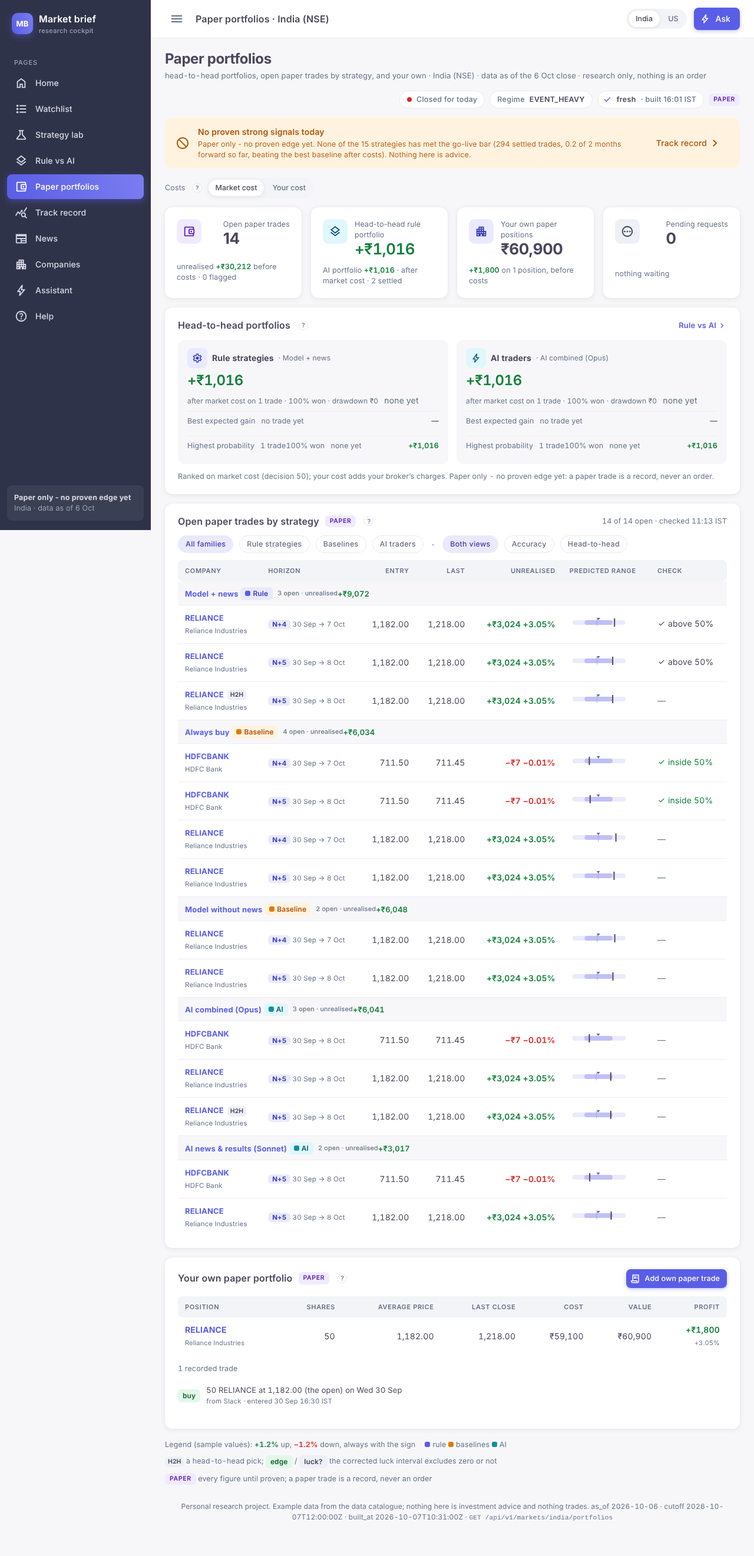
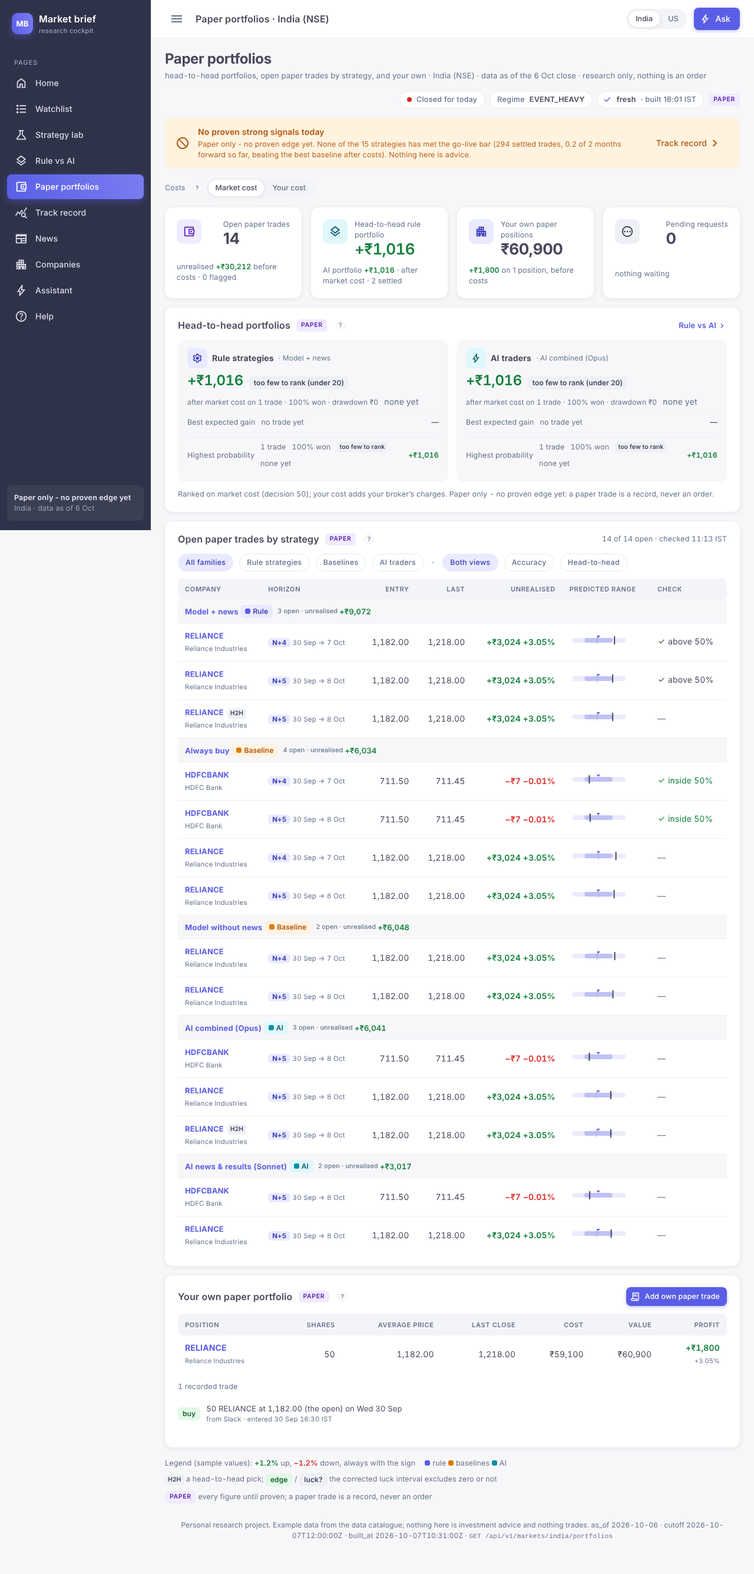
Design track: Rule vs AI round 2 fix (Paper tags on every card with a pick or trade); Paper portfolios round 1 fixes
Paper portfolios: pick-rule figures in their own spans, 'too few to rank' beside profits under 20 trades with the
luck label qualified, the pending note says a paper trade is a record, LUCK_INTERVAL_PCT, money formatting, the
dialog's accessible name.

Claude-Session: https://claude.ai/code/session_01RuLrYPoHyYoZ2LBEo834w9

diff --git a/design/mockups/07-paper-portfolios/page.html b/design/mockups/07-paper-portfolios/page.html
@@ -841,7 +841,8 @@ function luckBar(r) {
   s.append(svgEl('line', {class:'z', x1: X(0), x2: X(0), y1: 1, y2: 15}), svgEl('line', {class:'raw', x1: X(t.low_pct), x2: X(t.high_pct), y1: 8, y2: 8}));
   if (t.corrected_low_pct != null) s.append(svgEl('line', {class:'cor' + (t.corrected ? ' edge' : ''), x1: X(t.corrected_low_pct), x2: X(t.corrected_high_pct), y1: 8, y2: 8}));
   s.append(svgEl('circle', {class:'mean', cx: X(val(r, 'mean_return_pct')), cy: 8, r: 2.5}));
-  return el('span', {class:'luck', 'data-tip': `Luck test (${t.n} trades): mean return per trade ${sgn(val(r, 'mean_return_pct'))}; 95% interval ${sgn(t.low_pct)} to ${sgn(t.high_pct)} (thin), corrected for the ${t.m} rows compared ${sgn(t.corrected_low_pct)} to ${sgn(t.corrected_high_pct)} (thick). ${t.corrected ? 'Excludes zero: an edge may be real.' : 'Includes zero: could be luck; no edge claimed.'}`}, s, el('span', {class:'mb-label ' + (t.corrected ? 'success' : 'neutral')}, t.corrected ? 'edge' : 'luck?'));
+  const few = r.sample_badge === 'too_few_to_rank';
+  return el('span', {class:'luck', 'data-tip': `Luck test (${t.n} trades): mean return per trade ${sgn(val(r, 'mean_return_pct'))}; ${LUCK_INTERVAL_PCT}% interval ${sgn(t.low_pct)} to ${sgn(t.high_pct)} (thin), corrected for the ${t.m} rows compared ${sgn(t.corrected_low_pct)} to ${sgn(t.corrected_high_pct)} (thick). ${t.corrected ? (few ? `Excludes zero, but on fewer than ${MIN_TRADES_TO_RANK} trades: not counted as an edge yet.` : 'Excludes zero: an edge may be real.') : 'Includes zero: could be luck; no edge claimed.'}`}, s, el('span', {class:'mb-label ' + (t.corrected && !few ? 'success' : 'neutral')}, t.corrected ? (few ? 'edge? too few' : 'edge') : 'luck?'));
 }
 
 /* ---------- KPIs ---------- */
@@ -862,13 +863,13 @@ function kpis(p) {
 /* ---------- head-to-head portfolios ---------- */
 function h2hCard(p) {
   const cur = p.currency, card = el('section', {class:'card', 'aria-label':'Head-to-head portfolios'});
-  card.append(el('div', {class:'head'}, el('h2', {}, 'Head-to-head portfolios'), help('The portfolios of the head-to-head view (F1, F7.1): per family (the strongest rule strategy and the strongest AI trader) and per pick rule (best expected gain, highest probability). Each pick is one paper trade of the company’s amount. Profit after the selected costs; the luck test says whether a lead could be chance.'), el('div', {class:'end'}, el('a', {class:'go', href: PAGES.compare}, 'Rule vs AI', icon('ms-chevron_right')))));
+  card.append(el('div', {class:'head'}, el('h2', {}, 'Head-to-head portfolios'), el('span', {class:'mb-tag paper'}, 'paper'), help('The portfolios of the head-to-head view (F1, F7.1): per family (the strongest rule strategy and the strongest AI trader) and per pick rule (best expected gain, highest probability). Each pick is one paper trade of the company’s amount. Profit after the selected costs; the luck test says whether a lead could be chance.'), el('div', {class:'end'}, el('a', {class:'go', href: PAGES.compare}, 'Rule vs AI', icon('ms-chevron_right')))));
   const g = el('div', {class:'h2h'});
   for (const f of ['rule', 'ai']) {
     const fr = p.h2h_rows.find(r => r.scope === 'strategy' && r.family === f && r.horizon_days === 'all'), box = el('div', {class:'fbox'});
     box.append(el('div', {class:'fh'}, avatar(FAMILY[f][1], f === 'ai' ? 'info' : '', 'sm'), el('b', {}, FAMILY[f][0]), fr ? el('small', {}, `· ${stratOf(market, fr.strategy_id).name}`) : el('small', {}, '· nothing settled yet')));
-    if (fr) { box.append(el('div', {class:'tot'}, el('span', {class:'n'}, moneyDelta(cur, val(fr, 'net_pnl'), dec(cur))), el('small', {}, `after ${cost} cost on ${fr.trades} trade${fr.trades === 1 ? '' : 's'} · ${pct(val(fr, 'win_rate'))} won · drawdown ${money(cur, val(fr, 'max_drawdown'), dec(cur), true)}`), luckBar(fr)));
-      for (const k of ['best_expected_gain', 'highest_probability']) { const r = p.h2h_rows.find(x => x.scope === 'pick_rule' && x.family === f && x.pick_rule === k && x.horizon_days === 'all'); box.append(el('div', {class:'pr'}, el('span', {class:'l'}, PICK[k]), r ? el('span', {class:'st'}, `${r.trades} trade${r.trades === 1 ? '' : 's'}`, `${pct(val(r, 'win_rate'))} won`, luckBar(r)) : el('span', {class:'st muted'}, 'no trade yet'), r ? el('b', {}, moneyDelta(cur, val(r, 'net_pnl'), dec(cur))) : el('b', {class:'muted'}, '—'))); } }
+    if (fr) { box.append(el('div', {class:'tot'}, el('span', {class:'n'}, moneyDelta(cur, val(fr, 'net_pnl'), dec(cur))), fr.sample_badge === 'too_few_to_rank' ? el('span', {class:'mb-label neutral', 'data-tip': `Fewer than ${MIN_TRADES_TO_RANK} settled trades: a handful of trades is mostly luck (SPEC section 6).`}, `too few to rank (under ${MIN_TRADES_TO_RANK})`) : null, el('small', {}, `after ${cost} cost on ${fr.trades} trade${fr.trades === 1 ? '' : 's'} · ${pct(val(fr, 'win_rate'))} won · drawdown ${money(cur, val(fr, 'max_drawdown'), dec(cur), true)}`), luckBar(fr)));
+      for (const k of ['best_expected_gain', 'highest_probability']) { const r = p.h2h_rows.find(x => x.scope === 'pick_rule' && x.family === f && x.pick_rule === k && x.horizon_days === 'all'); box.append(el('div', {class:'pr'}, el('span', {class:'l'}, PICK[k]), r ? el('span', {class:'st'}, el('span', {}, `${r.trades} trade${r.trades === 1 ? '' : 's'}`), el('span', {}, `${pct(val(r, 'win_rate'))} won`), r.sample_badge === 'too_few_to_rank' ? el('span', {class:'mb-label neutral', style:'font-size:10.5px;padding:0 5px'}, 'too few to rank') : null, luckBar(r)) : el('span', {class:'st muted'}, 'no trade yet'), r ? el('b', {}, moneyDelta(cur, val(r, 'net_pnl'), dec(cur))) : el('b', {class:'muted'}, '—'))); } }
     else box.append(el('div', {class:'quiet'}, 'No settled head-to-head trade for this family yet.'));
     g.append(box);
   }
@@ -899,7 +900,7 @@ function openTrades(p) {
     const body = el('tbody'); const byS = {}; for (const r of rows) (byS[r.strategy_id] = byS[r.strategy_id] || []).push(r);
     for (const id of Object.keys(byS).sort((a, b) => ({rule: 0, baseline: 1, ai: 2}[stratOf(market, a).family] - {rule: 0, baseline: 1, ai: 2}[stratOf(market, b).family]) || a.localeCompare(b))) {
       const st = stratOf(market, id), trs = byS[id], sum = trs.reduce((s, r) => s + r.unrealised_pnl, 0);
-      body.append(el('tr', {class:'grp'}, el('td', {colspan: 8}, el('a', {class:'tk', href: `${PAGES.lab}#${market}/${id}`, 'data-tip': `${st.name}: open it in the Strategy lab.`}, st.name), ' ', famLabel(st.family, FAMILY_SHORT[st.family]), el('small', {}, `${trs.length} open · unrealised `), moneyDelta(cur, sum, dec(cur)))));
+      body.append(el('tr', {class:'grp'}, el('td', {colspan: 8}, el('a', {class:'tk', href: `${PAGES.lab}#${market}/${id}`, 'data-tip': `${st.name}: open it in the Strategy lab.`}, st.name), ' ', famLabel(st.family, FAMILY_SHORT[st.family]), el('small', {}, `${trs.length} open · unrealised\u00a0`), moneyDelta(cur, sum, dec(cur)))));
       for (const r of trs) { const ck = checks[r.trade_id]; let status;
         if (!ck) status = el('span', {class:'st muted', 'data-tip':'No intraday check stored for this trade by the cut-off.'}, '—');
         else { const b = BAND[ck.band] || [ck.band, '']; const fl = ck.flags.map(f => FLAG[f] || f); status = el('span', {class:'st ' + (ck.flagged ? 'flag' : b[1]), 'data-tip': `${fmtLocal(ck.check_at, market)}: ${price(cur, ck.last_price)}, ${sgn(ck.ret_since_entry_pct)} since entry, ${b[0]}${fl.length ? '; ' + fl.join(', ') : ''}. Best so far ${sgn(ck.high_since_entry_pct)}, worst ${sgn(ck.low_since_entry_pct)}.`}, icon(ck.flagged ? 'ms-warning' : 'ms-check'), ck.flagged ? ck.flags.map(f => FLAG_SHORT[f] || f).join(', ') : (BAND_SHORT[ck.band] || ck.band)); }
@@ -925,7 +926,7 @@ function owner(p) {
   const eurPos = o.positions.filter(x => x.eur_view);
   for (const x of eurPos) { const e = x.eur_view; card.append(el('div', {class:'sub2', style:'margin:14px 0 0'}, `Euro view of ${x.ticker} (${e.quantity} share${e.quantity === 1 ? '' : 's'}, marked ${fmtD(e.mark_date, false)})`, help(`What the position cost in euros and what it would give back if converted now: EUR/USD ${e.eurusd_at_buy} on the buy date, ${e.eurusd_now} now, FX markup ${(e.fx_fee_rate * 100).toFixed(2)}% each way. ${e.note}`)));
     const g = el('div', {class:'eur'}); const euro = v => (v < 0 ? '−' : '') + '€' + Math.abs(v).toLocaleString('en-IE', {minimumFractionDigits: 2, maximumFractionDigits: 2});
-    g.append(el('div', {class:'n', 'data-tip': `Dollars paid including the buy order’s cost: $${e.cost_usd.toFixed(2)} ÷ ${e.eurusd_at_buy} × (1 + ${e.fx_fee_rate}).`}, el('div', {class:'l'}, 'Euros paid'), el('div', {class:'v'}, euro(e.cost_eur)), el('div', {class:'s'}, `at EUR/USD ${e.eurusd_at_buy} + markup`)), el('div', {class:'n', 'data-tip': `Dollars held now $${e.value_usd.toFixed(2)} ÷ ${e.eurusd_now} × (1 − ${e.fx_fee_rate}).`}, el('div', {class:'l'}, 'Euros back if sold now'), el('div', {class:'v'}, euro(e.value_eur)), el('div', {class:'s'}, `at EUR/USD ${e.eurusd_now} − markup`)), el('div', {class:'n', 'data-tip':'Euros back minus euros paid.'}, el('div', {class:'l'}, 'Profit in euros'), el('div', {class:'v'}, el('span', {class:'mb-delta ' + (e.pnl_eur > 0 ? 'up' : e.pnl_eur < 0 ? 'down' : 'flat')}, euro(e.pnl_eur).replace(/^(?!−)/, e.pnl_eur > 0 ? '+' : ''))), el('div', {class:'s'}, `vs ${money(cur, x.pnl, 2, true)} in dollars`)), el('div', {class:'n', 'data-tip':'The part of the euro result due to the exchange rate alone, before any fee.'}, el('div', {class:'l'}, 'Of which the rate'), el('div', {class:'v'}, el('span', {class:'mb-delta ' + (e.fx_effect_eur > 0 ? 'up' : e.fx_effect_eur < 0 ? 'down' : 'flat')}, euro(e.fx_effect_eur).replace(/^(?!−)/, e.fx_effect_eur > 0 ? '+' : ''))), el('div', {class:'s'}, 'rate change only')));
+    g.append(el('div', {class:'n', 'data-tip': `Dollars paid including the buy order’s cost: ${money(cur, e.cost_usd, 2)} ÷ ${e.eurusd_at_buy} × (1 + ${e.fx_fee_rate}).`}, el('div', {class:'l'}, 'Euros paid'), el('div', {class:'v'}, euro(e.cost_eur)), el('div', {class:'s'}, `at EUR/USD ${e.eurusd_at_buy} + markup`)), el('div', {class:'n', 'data-tip': `Dollars held now ${money(cur, e.value_usd, 2)} ÷ ${e.eurusd_now} × (1 − ${e.fx_fee_rate}).`}, el('div', {class:'l'}, 'Euros back if sold now'), el('div', {class:'v'}, euro(e.value_eur)), el('div', {class:'s'}, `at EUR/USD ${e.eurusd_now} − markup`)), el('div', {class:'n', 'data-tip':'Euros back minus euros paid.'}, el('div', {class:'l'}, 'Profit in euros'), el('div', {class:'v'}, el('span', {class:'mb-delta ' + (e.pnl_eur > 0 ? 'up' : e.pnl_eur < 0 ? 'down' : 'flat')}, euro(e.pnl_eur).replace(/^(?!−)/, e.pnl_eur > 0 ? '+' : ''))), el('div', {class:'s'}, `vs ${money(cur, x.pnl, 2, true)} in dollars before costs`)), el('div', {class:'n', 'data-tip':'The part of the euro result due to the exchange rate alone, before any fee.'}, el('div', {class:'l'}, 'Of which the rate'), el('div', {class:'v'}, el('span', {class:'mb-delta ' + (e.fx_effect_eur > 0 ? 'up' : e.fx_effect_eur < 0 ? 'down' : 'flat')}, euro(e.fx_effect_eur).replace(/^(?!−)/, e.fx_effect_eur > 0 ? '+' : ''))), el('div', {class:'s'}, 'rate change only')));
     card.append(g); }
   card.append(el('div', {class:'sub2', style:'margin:14px 0 0'}, `${o.trades.length} recorded trade${o.trades.length === 1 ? '' : 's'}`));
   const ul = el('ul', {class:'tl'});
@@ -936,7 +937,7 @@ function owner(p) {
 }
 function renderPending(host) {
   host.innerHTML = '';
-  for (const r of (pending[market] || [])) host.append(el('div', {class:'mb-alert', style:'padding:10px 14px'}, icon('ms-pending'), el('div', {}, el('b', {class:'t'}, `Pending: ${r}`), el('div', {class:'s'}, 'Appended to the inbox with your sign-in and an idempotency key; the next run imports it and checks the price against the stored bar (F10, WS4). Mockup: nothing was sent.'))));
+  for (const r of (pending[market] || [])) host.append(el('div', {class:'mb-alert', style:'padding:10px 14px'}, icon('ms-pending'), el('div', {}, el('b', {class:'t'}, `Pending: ${r}`), el('div', {class:'s'}, 'A paper trade is a record, never an order. Appended to the inbox with your sign-in and an idempotency key; the next run imports it and checks the price against the stored bar (F10, WS4). Mockup: nothing was sent.'))));
 }
 function openDialog(p) {
   const cur = p.currency, dlg = $('#dlg'); dlg.innerHTML = '';
@@ -946,9 +947,9 @@ function openDialog(p) {
   const basis = el('select', {'aria-label':'Price basis'}, el('option', {value:'open'}, 'The session’s open'), el('option', {value:'close'}, 'The session’s close'), el('option', {value:'manual'}, 'A price I type (inside the day’s range)'));
   const px = el('input', {type:'number', step:'0.01', placeholder:'only for a typed price', 'aria-label':'Price'});
   const date = el('input', {type:'date', value: p.as_of, 'aria-label':'Session date'});
-  const body = el('div', {class:'dbody'}, el('h3', {}, 'Add an own paper trade'), el('div', {}, `A paper trade is a record of what you would have done, never an order. The price must be the stored bar’s open or close, or a typed price inside that day’s low-high; the import checks it (WS4). Whole shares in India, fractions in the US.`), el('label', {}, 'Company', sel), el('div', {class:'row2'}, el('label', {}, 'Side', side), el('label', {}, 'Shares', qty)), el('div', {class:'row2'}, el('label', {}, 'Price basis', basis), el('label', {}, `Price (${cur})`, px)), el('label', {}, 'Session date', date), el('div', {class:'muted', style:'font-size:12.5px'}, 'Recorded with your sign-in and an idempotency key; pending until the next run imports it. Nothing is bought or sold.'));
-  const acts = el('div', {class:'dact'}, el('button', {class:'md-btn text', type:'button', onclick: () => dlg.close()}, 'Cancel'), el('button', {class:'md-btn filled', type:'button', onclick: () => { (pending[market] = pending[market] || []).push(`${side.value} ${qty.value} ${sel.value} at ${basis.value === 'manual' ? (px.value ? price(cur, +px.value) : 'a typed price') : `the ${basis.value}`} of ${fmtD(date.value)}`); dlg.close(); render(); }}, 'Record paper trade'));
-  dlg.append(body, acts); dlg.showModal();
+  const body = el('div', {class:'dbody'}, el('h3', {id:'dlg-title'}, 'Add an own paper trade'), el('div', {}, `A paper trade is a record of what you would have done, never an order. The price must be the stored bar’s open or close, or a typed price inside that day’s low-high; the import checks it (WS4). Whole shares in India, fractions in the US.`), el('label', {}, 'Company', sel), el('div', {class:'row2'}, el('label', {}, 'Side', side), el('label', {}, 'Shares', qty)), el('div', {class:'row2'}, el('label', {}, 'Price basis', basis), el('label', {}, `Price (${cur})`, px)), el('label', {}, 'Session date', date), el('div', {class:'muted', style:'font-size:12.5px'}, 'Recorded with your sign-in and an idempotency key; pending until the next run imports it. Nothing is bought or sold.'));
+  const acts = el('div', {class:'dact'}, el('button', {class:'md-btn text', type:'button', onclick: () => dlg.close()}, 'Cancel'), el('button', {class:'md-btn filled', type:'button', onclick: () => { (pending[market] = pending[market] || []).push(`${side.value} ${qty.value} ${sel.value} at ${basis.value === 'manual' ? (px.value ? price(cur, +px.value) : 'a typed price') : `the ${basis.value}`} on ${fmtD(date.value)}`); dlg.close(); render(); }}, 'Record paper trade'));
+  dlg.setAttribute('aria-labelledby', 'dlg-title'); dlg.append(body, acts); dlg.showModal();
 }
 
 function legend() {

diff --git a/design/mockups/07-paper-portfolios/template.html b/design/mockups/07-paper-portfolios/template.html
@@ -86,7 +86,8 @@ function luckBar(r) {
   s.append(svgEl('line', {class:'z', x1: X(0), x2: X(0), y1: 1, y2: 15}), svgEl('line', {class:'raw', x1: X(t.low_pct), x2: X(t.high_pct), y1: 8, y2: 8}));
   if (t.corrected_low_pct != null) s.append(svgEl('line', {class:'cor' + (t.corrected ? ' edge' : ''), x1: X(t.corrected_low_pct), x2: X(t.corrected_high_pct), y1: 8, y2: 8}));
   s.append(svgEl('circle', {class:'mean', cx: X(val(r, 'mean_return_pct')), cy: 8, r: 2.5}));
-  return el('span', {class:'luck', 'data-tip': `Luck test (${t.n} trades): mean return per trade ${sgn(val(r, 'mean_return_pct'))}; 95% interval ${sgn(t.low_pct)} to ${sgn(t.high_pct)} (thin), corrected for the ${t.m} rows compared ${sgn(t.corrected_low_pct)} to ${sgn(t.corrected_high_pct)} (thick). ${t.corrected ? 'Excludes zero: an edge may be real.' : 'Includes zero: could be luck; no edge claimed.'}`}, s, el('span', {class:'mb-label ' + (t.corrected ? 'success' : 'neutral')}, t.corrected ? 'edge' : 'luck?'));
+  const few = r.sample_badge === 'too_few_to_rank';
+  return el('span', {class:'luck', 'data-tip': `Luck test (${t.n} trades): mean return per trade ${sgn(val(r, 'mean_return_pct'))}; ${LUCK_INTERVAL_PCT}% interval ${sgn(t.low_pct)} to ${sgn(t.high_pct)} (thin), corrected for the ${t.m} rows compared ${sgn(t.corrected_low_pct)} to ${sgn(t.corrected_high_pct)} (thick). ${t.corrected ? (few ? `Excludes zero, but on fewer than ${MIN_TRADES_TO_RANK} trades: not counted as an edge yet.` : 'Excludes zero: an edge may be real.') : 'Includes zero: could be luck; no edge claimed.'}`}, s, el('span', {class:'mb-label ' + (t.corrected && !few ? 'success' : 'neutral')}, t.corrected ? (few ? 'edge? too few' : 'edge') : 'luck?'));
 }
 
 /* ---------- KPIs ---------- */
@@ -107,13 +108,13 @@ function kpis(p) {
 /* ---------- head-to-head portfolios ---------- */
 function h2hCard(p) {
   const cur = p.currency, card = el('section', {class:'card', 'aria-label':'Head-to-head portfolios'});
-  card.append(el('div', {class:'head'}, el('h2', {}, 'Head-to-head portfolios'), help('The portfolios of the head-to-head view (F1, F7.1): per family (the strongest rule strategy and the strongest AI trader) and per pick rule (best expected gain, highest probability). Each pick is one paper trade of the company’s amount. Profit after the selected costs; the luck test says whether a lead could be chance.'), el('div', {class:'end'}, el('a', {class:'go', href: PAGES.compare}, 'Rule vs AI', icon('ms-chevron_right')))));
+  card.append(el('div', {class:'head'}, el('h2', {}, 'Head-to-head portfolios'), el('span', {class:'mb-tag paper'}, 'paper'), help('The portfolios of the head-to-head view (F1, F7.1): per family (the strongest rule strategy and the strongest AI trader) and per pick rule (best expected gain, highest probability). Each pick is one paper trade of the company’s amount. Profit after the selected costs; the luck test says whether a lead could be chance.'), el('div', {class:'end'}, el('a', {class:'go', href: PAGES.compare}, 'Rule vs AI', icon('ms-chevron_right')))));
   const g = el('div', {class:'h2h'});
   for (const f of ['rule', 'ai']) {
     const fr = p.h2h_rows.find(r => r.scope === 'strategy' && r.family === f && r.horizon_days === 'all'), box = el('div', {class:'fbox'});
     box.append(el('div', {class:'fh'}, avatar(FAMILY[f][1], f === 'ai' ? 'info' : '', 'sm'), el('b', {}, FAMILY[f][0]), fr ? el('small', {}, `· ${stratOf(market, fr.strategy_id).name}`) : el('small', {}, '· nothing settled yet')));
-    if (fr) { box.append(el('div', {class:'tot'}, el('span', {class:'n'}, moneyDelta(cur, val(fr, 'net_pnl'), dec(cur))), el('small', {}, `after ${cost} cost on ${fr.trades} trade${fr.trades === 1 ? '' : 's'} · ${pct(val(fr, 'win_rate'))} won · drawdown ${money(cur, val(fr, 'max_drawdown'), dec(cur), true)}`), luckBar(fr)));
-      for (const k of ['best_expected_gain', 'highest_probability']) { const r = p.h2h_rows.find(x => x.scope === 'pick_rule' && x.family === f && x.pick_rule === k && x.horizon_days === 'all'); box.append(el('div', {class:'pr'}, el('span', {class:'l'}, PICK[k]), r ? el('span', {class:'st'}, `${r.trades} trade${r.trades === 1 ? '' : 's'}`, `${pct(val(r, 'win_rate'))} won`, luckBar(r)) : el('span', {class:'st muted'}, 'no trade yet'), r ? el('b', {}, moneyDelta(cur, val(r, 'net_pnl'), dec(cur))) : el('b', {class:'muted'}, '—'))); } }
+    if (fr) { box.append(el('div', {class:'tot'}, el('span', {class:'n'}, moneyDelta(cur, val(fr, 'net_pnl'), dec(cur))), fr.sample_badge === 'too_few_to_rank' ? el('span', {class:'mb-label neutral', 'data-tip': `Fewer than ${MIN_TRADES_TO_RANK} settled trades: a handful of trades is mostly luck (SPEC section 6).`}, `too few to rank (under ${MIN_TRADES_TO_RANK})`) : null, el('small', {}, `after ${cost} cost on ${fr.trades} trade${fr.trades === 1 ? '' : 's'} · ${pct(val(fr, 'win_rate'))} won · drawdown ${money(cur, val(fr, 'max_drawdown'), dec(cur), true)}`), luckBar(fr)));
+      for (const k of ['best_expected_gain', 'highest_probability']) { const r = p.h2h_rows.find(x => x.scope === 'pick_rule' && x.family === f && x.pick_rule === k && x.horizon_days === 'all'); box.append(el('div', {class:'pr'}, el('span', {class:'l'}, PICK[k]), r ? el('span', {class:'st'}, el('span', {}, `${r.trades} trade${r.trades === 1 ? '' : 's'}`), el('span', {}, `${pct(val(r, 'win_rate'))} won`), r.sample_badge === 'too_few_to_rank' ? el('span', {class:'mb-label neutral', style:'font-size:10.5px;padding:0 5px'}, 'too few to rank') : null, luckBar(r)) : el('span', {class:'st muted'}, 'no trade yet'), r ? el('b', {}, moneyDelta(cur, val(r, 'net_pnl'), dec(cur))) : el('b', {class:'muted'}, '—'))); } }
     else box.append(el('div', {class:'quiet'}, 'No settled head-to-head trade for this family yet.'));
     g.append(box);
   }
@@ -144,7 +145,7 @@ function openTrades(p) {
     const body = el('tbody'); const byS = {}; for (const r of rows) (byS[r.strategy_id] = byS[r.strategy_id] || []).push(r);
     for (const id of Object.keys(byS).sort((a, b) => ({rule: 0, baseline: 1, ai: 2}[stratOf(market, a).family] - {rule: 0, baseline: 1, ai: 2}[stratOf(market, b).family]) || a.localeCompare(b))) {
       const st = stratOf(market, id), trs = byS[id], sum = trs.reduce((s, r) => s + r.unrealised_pnl, 0);
-      body.append(el('tr', {class:'grp'}, el('td', {colspan: 8}, el('a', {class:'tk', href: `${PAGES.lab}#${market}/${id}`, 'data-tip': `${st.name}: open it in the Strategy lab.`}, st.name), ' ', famLabel(st.family, FAMILY_SHORT[st.family]), el('small', {}, `${trs.length} open · unrealised `), moneyDelta(cur, sum, dec(cur)))));
+      body.append(el('tr', {class:'grp'}, el('td', {colspan: 8}, el('a', {class:'tk', href: `${PAGES.lab}#${market}/${id}`, 'data-tip': `${st.name}: open it in the Strategy lab.`}, st.name), ' ', famLabel(st.family, FAMILY_SHORT[st.family]), el('small', {}, `${trs.length} open · unrealised\u00a0`), moneyDelta(cur, sum, dec(cur)))));
       for (const r of trs) { const ck = checks[r.trade_id]; let status;
         if (!ck) status = el('span', {class:'st muted', 'data-tip':'No intraday check stored for this trade by the cut-off.'}, '—');
         else { const b = BAND[ck.band] || [ck.band, '']; const fl = ck.flags.map(f => FLAG[f] || f); status = el('span', {class:'st ' + (ck.flagged ? 'flag' : b[1]), 'data-tip': `${fmtLocal(ck.check_at, market)}: ${price(cur, ck.last_price)}, ${sgn(ck.ret_since_entry_pct)} since entry, ${b[0]}${fl.length ? '; ' + fl.join(', ') : ''}. Best so far ${sgn(ck.high_since_entry_pct)}, worst ${sgn(ck.low_since_entry_pct)}.`}, icon(ck.flagged ? 'ms-warning' : 'ms-check'), ck.flagged ? ck.flags.map(f => FLAG_SHORT[f] || f).join(', ') : (BAND_SHORT[ck.band] || ck.band)); }
@@ -170,7 +171,7 @@ function owner(p) {
   const eurPos = o.positions.filter(x => x.eur_view);
   for (const x of eurPos) { const e = x.eur_view; card.append(el('div', {class:'sub2', style:'margin:14px 0 0'}, `Euro view of ${x.ticker} (${e.quantity} share${e.quantity === 1 ? '' : 's'}, marked ${fmtD(e.mark_date, false)})`, help(`What the position cost in euros and what it would give back if converted now: EUR/USD ${e.eurusd_at_buy} on the buy date, ${e.eurusd_now} now, FX markup ${(e.fx_fee_rate * 100).toFixed(2)}% each way. ${e.note}`)));
     const g = el('div', {class:'eur'}); const euro = v => (v < 0 ? '−' : '') + '€' + Math.abs(v).toLocaleString('en-IE', {minimumFractionDigits: 2, maximumFractionDigits: 2});
-    g.append(el('div', {class:'n', 'data-tip': `Dollars paid including the buy order’s cost: $${e.cost_usd.toFixed(2)} ÷ ${e.eurusd_at_buy} × (1 + ${e.fx_fee_rate}).`}, el('div', {class:'l'}, 'Euros paid'), el('div', {class:'v'}, euro(e.cost_eur)), el('div', {class:'s'}, `at EUR/USD ${e.eurusd_at_buy} + markup`)), el('div', {class:'n', 'data-tip': `Dollars held now $${e.value_usd.toFixed(2)} ÷ ${e.eurusd_now} × (1 − ${e.fx_fee_rate}).`}, el('div', {class:'l'}, 'Euros back if sold now'), el('div', {class:'v'}, euro(e.value_eur)), el('div', {class:'s'}, `at EUR/USD ${e.eurusd_now} − markup`)), el('div', {class:'n', 'data-tip':'Euros back minus euros paid.'}, el('div', {class:'l'}, 'Profit in euros'), el('div', {class:'v'}, el('span', {class:'mb-delta ' + (e.pnl_eur > 0 ? 'up' : e.pnl_eur < 0 ? 'down' : 'flat')}, euro(e.pnl_eur).replace(/^(?!−)/, e.pnl_eur > 0 ? '+' : ''))), el('div', {class:'s'}, `vs ${money(cur, x.pnl, 2, true)} in dollars`)), el('div', {class:'n', 'data-tip':'The part of the euro result due to the exchange rate alone, before any fee.'}, el('div', {class:'l'}, 'Of which the rate'), el('div', {class:'v'}, el('span', {class:'mb-delta ' + (e.fx_effect_eur > 0 ? 'up' : e.fx_effect_eur < 0 ? 'down' : 'flat')}, euro(e.fx_effect_eur).replace(/^(?!−)/, e.fx_effect_eur > 0 ? '+' : ''))), el('div', {class:'s'}, 'rate change only')));
+    g.append(el('div', {class:'n', 'data-tip': `Dollars paid including the buy order’s cost: ${money(cur, e.cost_usd, 2)} ÷ ${e.eurusd_at_buy} × (1 + ${e.fx_fee_rate}).`}, el('div', {class:'l'}, 'Euros paid'), el('div', {class:'v'}, euro(e.cost_eur)), el('div', {class:'s'}, `at EUR/USD ${e.eurusd_at_buy} + markup`)), el('div', {class:'n', 'data-tip': `Dollars held now ${money(cur, e.value_usd, 2)} ÷ ${e.eurusd_now} × (1 − ${e.fx_fee_rate}).`}, el('div', {class:'l'}, 'Euros back if sold now'), el('div', {class:'v'}, euro(e.value_eur)), el('div', {class:'s'}, `at EUR/USD ${e.eurusd_now} − markup`)), el('div', {class:'n', 'data-tip':'Euros back minus euros paid.'}, el('div', {class:'l'}, 'Profit in euros'), el('div', {class:'v'}, el('span', {class:'mb-delta ' + (e.pnl_eur > 0 ? 'up' : e.pnl_eur < 0 ? 'down' : 'flat')}, euro(e.pnl_eur).replace(/^(?!−)/, e.pnl_eur > 0 ? '+' : ''))), el('div', {class:'s'}, `vs ${money(cur, x.pnl, 2, true)} in dollars before costs`)), el('div', {class:'n', 'data-tip':'The part of the euro result due to the exchange rate alone, before any fee.'}, el('div', {class:'l'}, 'Of which the rate'), el('div', {class:'v'}, el('span', {class:'mb-delta ' + (e.fx_effect_eur > 0 ? 'up' : e.fx_effect_eur < 0 ? 'down' : 'flat')}, euro(e.fx_effect_eur).replace(/^(?!−)/, e.fx_effect_eur > 0 ? '+' : ''))), el('div', {class:'s'}, 'rate change only')));
     card.append(g); }
   card.append(el('div', {class:'sub2', style:'margin:14px 0 0'}, `${o.trades.length} recorded trade${o.trades.length === 1 ? '' : 's'}`));
   const ul = el('ul', {class:'tl'});
@@ -181,7 +182,7 @@ function owner(p) {
 }
 function renderPending(host) {
   host.innerHTML = '';
-  for (const r of (pending[market] || [])) host.append(el('div', {class:'mb-alert', style:'padding:10px 14px'}, icon('ms-pending'), el('div', {}, el('b', {class:'t'}, `Pending: ${r}`), el('div', {class:'s'}, 'Appended to the inbox with your sign-in and an idempotency key; the next run imports it and checks the price against the stored bar (F10, WS4). Mockup: nothing was sent.'))));
+  for (const r of (pending[market] || [])) host.append(el('div', {class:'mb-alert', style:'padding:10px 14px'}, icon('ms-pending'), el('div', {}, el('b', {class:'t'}, `Pending: ${r}`), el('div', {class:'s'}, 'A paper trade is a record, never an order. Appended to the inbox with your sign-in and an idempotency key; the next run imports it and checks the price against the stored bar (F10, WS4). Mockup: nothing was sent.'))));
 }
 function openDialog(p) {
   const cur = p.currency, dlg = $('#dlg'); dlg.innerHTML = '';
@@ -191,9 +192,9 @@ function openDialog(p) {
   const basis = el('select', {'aria-label':'Price basis'}, el('option', {value:'open'}, 'The session’s open'), el('option', {value:'close'}, 'The session’s close'), el('option', {value:'manual'}, 'A price I type (inside the day’s range)'));
   const px = el('input', {type:'number', step:'0.01', placeholder:'only for a typed price', 'aria-label':'Price'});
   const date = el('input', {type:'date', value: p.as_of, 'aria-label':'Session date'});
-  const body = el('div', {class:'dbody'}, el('h3', {}, 'Add an own paper trade'), el('div', {}, `A paper trade is a record of what you would have done, never an order. The price must be the stored bar’s open or close, or a typed price inside that day’s low-high; the import checks it (WS4). Whole shares in India, fractions in the US.`), el('label', {}, 'Company', sel), el('div', {class:'row2'}, el('label', {}, 'Side', side), el('label', {}, 'Shares', qty)), el('div', {class:'row2'}, el('label', {}, 'Price basis', basis), el('label', {}, `Price (${cur})`, px)), el('label', {}, 'Session date', date), el('div', {class:'muted', style:'font-size:12.5px'}, 'Recorded with your sign-in and an idempotency key; pending until the next run imports it. Nothing is bought or sold.'));
-  const acts = el('div', {class:'dact'}, el('button', {class:'md-btn text', type:'button', onclick: () => dlg.close()}, 'Cancel'), el('button', {class:'md-btn filled', type:'button', onclick: () => { (pending[market] = pending[market] || []).push(`${side.value} ${qty.value} ${sel.value} at ${basis.value === 'manual' ? (px.value ? price(cur, +px.value) : 'a typed price') : `the ${basis.value}`} of ${fmtD(date.value)}`); dlg.close(); render(); }}, 'Record paper trade'));
-  dlg.append(body, acts); dlg.showModal();
+  const body = el('div', {class:'dbody'}, el('h3', {id:'dlg-title'}, 'Add an own paper trade'), el('div', {}, `A paper trade is a record of what you would have done, never an order. The price must be the stored bar’s open or close, or a typed price inside that day’s low-high; the import checks it (WS4). Whole shares in India, fractions in the US.`), el('label', {}, 'Company', sel), el('div', {class:'row2'}, el('label', {}, 'Side', side), el('label', {}, 'Shares', qty)), el('div', {class:'row2'}, el('label', {}, 'Price basis', basis), el('label', {}, `Price (${cur})`, px)), el('label', {}, 'Session date', date), el('div', {class:'muted', style:'font-size:12.5px'}, 'Recorded with your sign-in and an idempotency key; pending until the next run imports it. Nothing is bought or sold.'));
+  const acts = el('div', {class:'dact'}, el('button', {class:'md-btn text', type:'button', onclick: () => dlg.close()}, 'Cancel'), el('button', {class:'md-btn filled', type:'button', onclick: () => { (pending[market] = pending[market] || []).push(`${side.value} ${qty.value} ${sel.value} at ${basis.value === 'manual' ? (px.value ? price(cur, +px.value) : 'a typed price') : `the ${basis.value}`} on ${fmtD(date.value)}`); dlg.close(); render(); }}, 'Record paper trade'));
+  dlg.setAttribute('aria-labelledby', 'dlg-title'); dlg.append(body, acts); dlg.showModal();
 }
 
 function legend() {

diff --git a/design/mockups/06-rule-vs-ai/page.html b/design/mockups/06-rule-vs-ai/page.html
@@ -927,7 +927,7 @@ function matches(p) {
 /* ---------- pick rules and regimes ---------- */
 function slices(p) {
   const cur = p.currency, card = el('section', {class:'card', 'aria-label':'By pick rule and regime'});
-  card.append(el('div', {class:'head'}, el('h2', {}, 'Gain-pick vs probability-pick, and by regime'), help('The same head-to-head trades cut two ways (F7.1): by the pick rule that chose the horizon (best expected gain vs highest probability) and by the market regime at prediction time (F2.6).')));
+  card.append(el('div', {class:'head'}, el('h2', {}, 'Gain-pick vs probability-pick, and by regime'), el('span', {class:'mb-tag paper'}, 'paper'), help('The same head-to-head trades cut two ways (F7.1): by the pick rule that chose the horizon (best expected gain vs highest probability) and by the market regime at prediction time (F2.6).')));
   const pr = p.rows.filter(r => r.scope === 'pick_rule' && r.horizon_days === 'all').sort((a, b) => a.family.localeCompare(b.family) || a.pick_rule.localeCompare(b.pick_rule));
   const rg = p.rows.filter(r => r.scope === 'strategy_regime').sort((a, b) => a.family.localeCompare(b.family) || String(a.regime).localeCompare(String(b.regime)));
   const tbl = (rows, firstLabel, firstOf) => { const t = el('table', {class:'md-table tbl mt'}); t.append(el('thead', {}, el('tr', {}, el('th', {}, firstLabel), el('th', {class:'num'}, 'Trades'), el('th', {class:'num'}, `Profit after ${cost} cost`), el('th', {class:'num'}, 'Win rate'), el('th', {class:'num cm'}, 'Target error'), el('th', {}, 'Luck test')))); const b = el('tbody'); for (const r of rows) b.append(el('tr', {}, el('td', {}, famLabel(r.family, FAMILY_SHORT[r.family]), ' ', firstOf(r)), el('td', {class:'num'}, String(r.trades)), el('td', {class:'num'}, moneyDelta(cur, val(r, 'net_pnl'), dec(cur))), el('td', {class:'num'}, pct(val(r, 'win_rate'))), el('td', {class:'num cm'}, sgn(r.avg_target_error_pct)), el('td', {}, luckBar(r)))); t.append(b); return el('div', {class:'md-table-wrap'}, t); };
@@ -979,7 +979,7 @@ function niceTicks(lo, hi, n) { const span = hi - lo, raw = span / n, mag = Math
 /* ---------- why: EOD analyst ---------- */
 function why(p) {
   const cur = p.currency, e = p.eod[0], card = el('section', {class:'card', 'aria-label':'Why: the end-of-day analyst'});
-  card.append(el('div', {class:'head'}, el('h2', {}, 'Why: the end-of-day analyst'), help('After each close the EOD analyst (Sonnet, F6.1) sums the day per family and per pick rule, writes a summary of at most 150 words citing ids, and a reason of at most 60 words for every head-to-head trade settled that day, grounded in the trade’s automatic reason split (market, sector, news, company). A deterministic gate checks every id and number. It explains; it never predicts.'), el('div', {class:'end'}, e ? `session ${fmtD(e.session_date)} · ${e.settled_trades} trades settled` : '')));
+  card.append(el('div', {class:'head'}, el('h2', {}, 'Why: the end-of-day analyst'), el('span', {class:'mb-tag paper'}, 'paper'), help('After each close the EOD analyst (Sonnet, F6.1) sums the day per family and per pick rule, writes a summary of at most 150 words citing ids, and a reason of at most 60 words for every head-to-head trade settled that day, grounded in the trade’s automatic reason split (market, sector, news, company). A deterministic gate checks every id and number. It explains; it never predicts.'), el('div', {class:'end'}, e ? `session ${fmtD(e.session_date)} · ${e.settled_trades} trades settled` : '')));
   if (!e) { card.append(el('div', {class:'quiet'}, 'No end-of-day analysis stored by the cut-off.')); return card; }
   const f3 = el('div', {class:'fam3'});
   for (const f of ['rule', 'baseline', 'ai']) { const x = e.results[f]; f3.append(el('div', {class:'f'}, el('div', {class:'l'}, el('i', {class:'sw ' + FAMILY[f][2]}), FAMILY[f][0]), el('div', {class:'v'}, moneyDelta(cur, x.net_pnl, dec(cur))), el('div', {class:'s'}, x.trades ? `${x.wins} of ${x.trades} trade${x.trades === 1 ? '' : 's'} made money (accuracy view, market cost)` : 'no trade settled'))); }

diff --git a/design/mockups/06-rule-vs-ai/template.html b/design/mockups/06-rule-vs-ai/template.html
@@ -172,7 +172,7 @@ function matches(p) {
 /* ---------- pick rules and regimes ---------- */
 function slices(p) {
   const cur = p.currency, card = el('section', {class:'card', 'aria-label':'By pick rule and regime'});
-  card.append(el('div', {class:'head'}, el('h2', {}, 'Gain-pick vs probability-pick, and by regime'), help('The same head-to-head trades cut two ways (F7.1): by the pick rule that chose the horizon (best expected gain vs highest probability) and by the market regime at prediction time (F2.6).')));
+  card.append(el('div', {class:'head'}, el('h2', {}, 'Gain-pick vs probability-pick, and by regime'), el('span', {class:'mb-tag paper'}, 'paper'), help('The same head-to-head trades cut two ways (F7.1): by the pick rule that chose the horizon (best expected gain vs highest probability) and by the market regime at prediction time (F2.6).')));
   const pr = p.rows.filter(r => r.scope === 'pick_rule' && r.horizon_days === 'all').sort((a, b) => a.family.localeCompare(b.family) || a.pick_rule.localeCompare(b.pick_rule));
   const rg = p.rows.filter(r => r.scope === 'strategy_regime').sort((a, b) => a.family.localeCompare(b.family) || String(a.regime).localeCompare(String(b.regime)));
   const tbl = (rows, firstLabel, firstOf) => { const t = el('table', {class:'md-table tbl mt'}); t.append(el('thead', {}, el('tr', {}, el('th', {}, firstLabel), el('th', {class:'num'}, 'Trades'), el('th', {class:'num'}, `Profit after ${cost} cost`), el('th', {class:'num'}, 'Win rate'), el('th', {class:'num cm'}, 'Target error'), el('th', {}, 'Luck test')))); const b = el('tbody'); for (const r of rows) b.append(el('tr', {}, el('td', {}, famLabel(r.family, FAMILY_SHORT[r.family]), ' ', firstOf(r)), el('td', {class:'num'}, String(r.trades)), el('td', {class:'num'}, moneyDelta(cur, val(r, 'net_pnl'), dec(cur))), el('td', {class:'num'}, pct(val(r, 'win_rate'))), el('td', {class:'num cm'}, sgn(r.avg_target_error_pct)), el('td', {}, luckBar(r)))); t.append(b); return el('div', {class:'md-table-wrap'}, t); };
@@ -224,7 +224,7 @@ function niceTicks(lo, hi, n) { const span = hi - lo, raw = span / n, mag = Math
 /* ---------- why: EOD analyst ---------- */
 function why(p) {
   const cur = p.currency, e = p.eod[0], card = el('section', {class:'card', 'aria-label':'Why: the end-of-day analyst'});
-  card.append(el('div', {class:'head'}, el('h2', {}, 'Why: the end-of-day analyst'), help('After each close the EOD analyst (Sonnet, F6.1) sums the day per family and per pick rule, writes a summary of at most 150 words citing ids, and a reason of at most 60 words for every head-to-head trade settled that day, grounded in the trade’s automatic reason split (market, sector, news, company). A deterministic gate checks every id and number. It explains; it never predicts.'), el('div', {class:'end'}, e ? `session ${fmtD(e.session_date)} · ${e.settled_trades} trades settled` : '')));
+  card.append(el('div', {class:'head'}, el('h2', {}, 'Why: the end-of-day analyst'), el('span', {class:'mb-tag paper'}, 'paper'), help('After each close the EOD analyst (Sonnet, F6.1) sums the day per family and per pick rule, writes a summary of at most 150 words citing ids, and a reason of at most 60 words for every head-to-head trade settled that day, grounded in the trade’s automatic reason split (market, sector, news, company). A deterministic gate checks every id and number. It explains; it never predicts.'), el('div', {class:'end'}, e ? `session ${fmtD(e.session_date)} · ${e.settled_trades} trades settled` : '')));
   if (!e) { card.append(el('div', {class:'quiet'}, 'No end-of-day analysis stored by the cut-off.')); return card; }
   const f3 = el('div', {class:'fam3'});
   for (const f of ['rule', 'baseline', 'ai']) { const x = e.results[f]; f3.append(el('div', {class:'f'}, el('div', {class:'l'}, el('i', {class:'sw ' + FAMILY[f][2]}), FAMILY[f][0]), el('div', {class:'v'}, moneyDelta(cur, x.net_pnl, dec(cur))), el('div', {class:'s'}, x.trades ? `${x.wins} of ${x.trades} trade${x.trades === 1 ? '' : 's'} made money (accuracy view, market cost)` : 'no trade settled'))); }

diff --git a/design/mockups/06-rule-vs-ai/rationale.md b/design/mockups/06-rule-vs-ai/rationale.md
@@ -30,8 +30,9 @@ director say about why. The page answers top-down in that order and never turns 
 4. **Match by match**: one row per company, entry session and pick rule from the settled head-to-head trades, the
    rule result and the AI result (net after the selected cost, strategy, horizon, return, target reached and error),
    and who won (a draw when both picked the same horizon and therefore the same trade; "waiting" while the other
-   side's pick is still open, shown as "open · N+k"; "no match" when that family had no candidate that day). The
-   head totals the matches and names the cost view.
+   side's pick is still open, shown as "open · N+k"; "no match" when that family had no candidate that day, or when
+   no pick of that family is stored for the day, "no pick stored"). The head totals the matches and names the cost
+   view.
 5. **Gain-pick vs probability-pick, and by regime** (F7.1, F2.6): the pick-rule rows and the regime rows of the
    head-to-head view, each with trades, profit, win rate, target error and the luck test.
 6. **Per company**: rule vs AI per company summed from the settled head-to-head trades after the selected cost (the
@@ -60,7 +61,8 @@ Design system v2 only; light theme; phone and desktop (the scorecard is one colu
 wrapper at every width 390-1700 px in both markets; the line chart is drawn at its container's width); never colour
 alone (the verdict in words, "edge"/"luck?" labels, icons on the winner labels, the sign on every number); keyboard:
 the cost switch, the strategy and company links, every tooltip and chart point focusable; plain language; a Paper tag
-on every card that shows a pick or a trade; "No proven strong signals today"; research only.
+on every card that shows a pick or a trade (scorecard, picks, matches, pick-rule and regime slices, per company,
+cumulative lines, the EOD analyst); "No proven strong signals today"; research only.
 
 ## Checked
 `check_page.js`: no console errors, no overflow, no external requests at 1280 and 390 px. `check_text.js` (twelve
@@ -71,7 +73,8 @@ Judge round 1 (2026-10-08) found four blockers, all fixed before round 2: an ope
 earlier sessions' picks are now in the payload), the review card's wording read from reviews written after the
 cut-off (now computed from the cut-off date), two rationale claims (Paper tags added to the picks, matches and
 per-company cards; the review data request recorded in this page's `_data_requests`), and the matches and
-per-company tables ignoring the cost switch (now per-trade your-cost figures from the cost views, labelled).
+per-company tables ignoring the cost switch (now per-trade your-cost figures from the cost views, labelled). Round 2
+found the Paper claim still short of two cards (the slices and the EOD analyst); both carry the tag now.
 
 ## Decisions taken for the owner (reported to the orchestrator)
 - The page opens with a two-sided scorecard and a one-word verdict, with the luck test drawn, rather than a table:

diff --git a/design/mockups/07-paper-portfolios/rationale.md b/design/mockups/07-paper-portfolios/rationale.md
@@ -21,13 +21,16 @@ own paper trade, which is a request, never an order.
    it, the owner's own positions (value, profit), pending requests.
 3. **Head-to-head portfolios** (F7.1): one box per family naming the strongest strategy, profit after the selected cost
    (large) with trades, win rate, drawdown and the luck test drawn, and under it the two pick-rule portfolios (best
-   expected gain, highest probability) each with trades, win rate, luck label and profit. Link to Rule vs AI.
+   expected gain, highest probability) each with trades, win rate, luck label and profit; "too few to rank" beside
+   any profit on fewer than 20 trades, and the luck label reads "edge? too few" rather than "edge" on such rows.
+   Link to Rule vs AI.
 4. **Open paper trades by strategy**: filter chips (family; accuracy / head-to-head view), then one group row per
    strategy (name linked to the Strategy lab, family label, count, unrealised sum) and one row per trade: company
    (H2H tag for a pick), horizon and window, entry, last close, unrealised in money and percent, the trade's own
    predicted range with the entry dotted and the last close as the dark line, distance to the target, and the latest
-   intraday check's verdict at its own price. Columns by width: to-target from 1360 px, entry/last/percent from
-   1200 px, the range from 761 px.
+   intraday check's verdict at its own price. Columns by width: to-target from 1360 px, entry, last, the percent
+   and the entry-to-exit dates from 1200 px, the range from 761 px; the owner's average price and last close from
+   1001 px and its cost column from 761 px.
 5. **Your own paper portfolio** (WS4, F1.11): positions (shares, average price, last close, cost, value, profit with
    percent), the **euro view** of each US position as four tiles (euros paid at the buy-date rate plus markup, euros
    back at today's rate minus markup, profit in euros beside the dollar profit, and the part due to the rate alone,
@@ -57,6 +60,11 @@ widths, both markets): no clipped, overflowing or overlapping text. A sweep of 3
 markets: neither table wider than its wrapper. A script switched the family and view filters (chips show the
 selection), the cost switch (the head-to-head figures change), opened the dialog and recorded a trade (a pending
 request appears and the KPI counts it); no script error; every tooltip element focusable. Rebuild is byte-identical.
+
+Judge round 1 (2026-10-08) found three blockers, all fixed before round 2: two figures of the pick-rule rows ran
+together ("1 trade100% won"), the pending note did not say a paper trade is a record (it does now), and the "too few
+to rank" badge was missing beside profits on fewer than 20 trades while a bare "edge" showed (now the badge shows and
+the luck label is qualified).
 
 ## Decisions taken for the owner (reported to the orchestrator)
 - The head-to-head portfolios are two family boxes with the pick-rule portfolios inside, not a four-row table, so the
